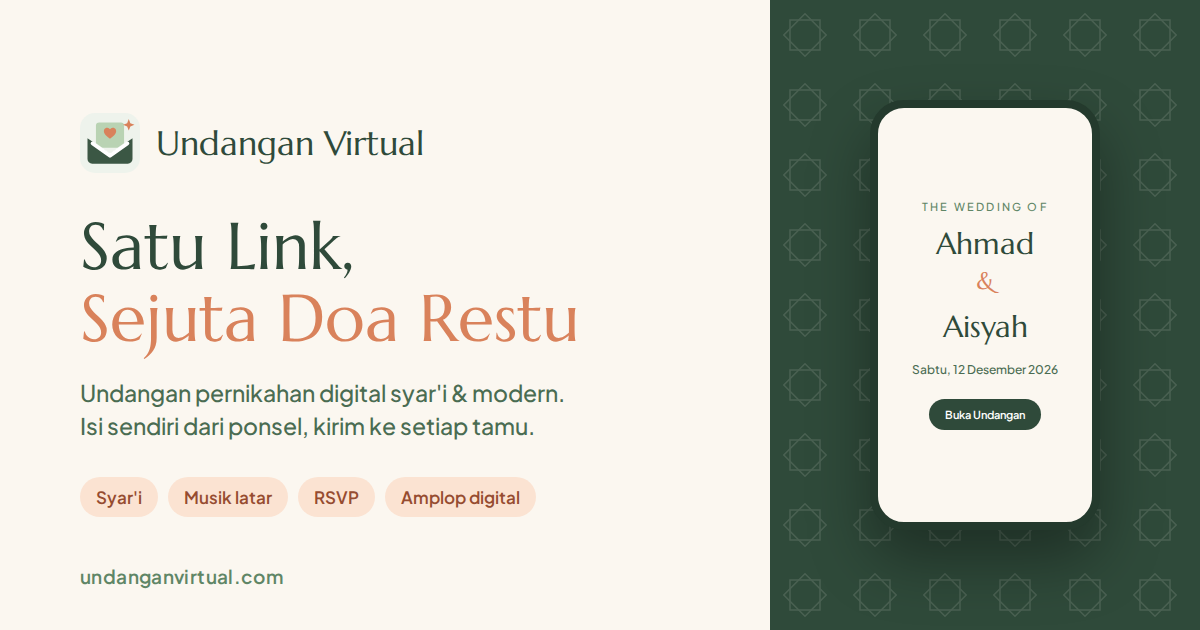
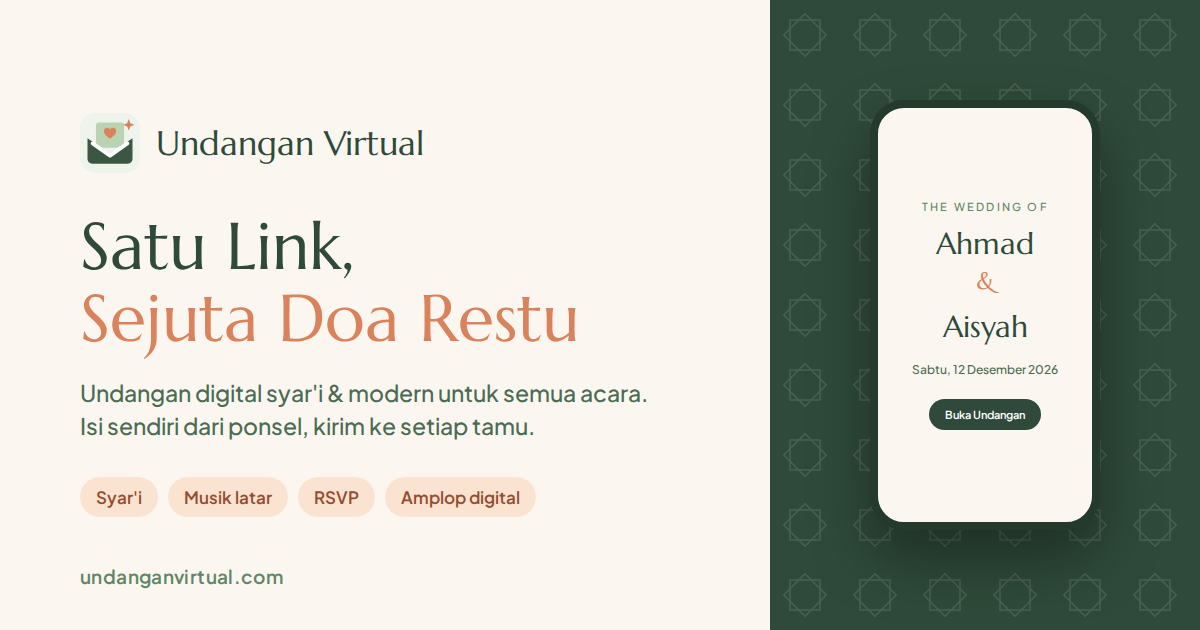
SEO beranda untuk semua jenis acara, bukan hanya pernikahan
- judul, meta description, keywords, OG, manifest, dan footer menjadi umum
- hero & fitur: pernikahan, aqiqah, khitanan, ulang tahun, kantor, kegiatan sekolah
- section baru "Undangan Digital untuk Setiap Acara" dengan tautan ke tiap jenis
- FAQ (dan JSON-LD FAQPage) diperluas: jenis acara, cara membuat, harga, donasi
- gambar og-image.png dan OG dinamis memakai teks umum

Claude-Session: https://claude.ai/code/session_01H35BSszKcq6NT5Cah5ijFU

Changed region(s): [[0.1542, 0.6032, 0.555, 0.6635]]

diff --git a/app/pages/index.vue b/app/pages/index.vue
@@ -3,8 +3,8 @@ import type { CatalogTheme } from '~/composables/useCatalog'
 import type { FeatureIconName } from '~/components/ui/FeatureIcon.vue'
 
 useSeoMeta({
-  title: 'Undangan Pernikahan Digital Syar\'i & Modern',
-  ogTitle: `${BRAND.name} — Undangan Pernikahan Digital Syar'i & Modern`,
+  title: 'Undangan Digital Online Syar\'i & Modern untuk Semua Acara',
+  ogTitle: `${BRAND.name} — Undangan Digital Syar'i & Modern untuk Semua Acara`,
   description: BRAND.description,
   ogDescription: BRAND.description,
 })
@@ -65,19 +65,27 @@ const features = [
   { i: 'invite' as const, t: 'Link personal per tamu', d: 'Nama tamu tampil di sampul undangan, dan Anda bisa melihat siapa yang sudah membuka.' },
   { i: 'music' as const, t: 'Musik latar', d: 'Unggah lagu atau nasyid pilihan Anda, diputar otomatis saat undangan dibuka.' },
   { i: 'rsvp' as const, t: 'RSVP & buku ucapan', d: 'Tamu konfirmasi kehadiran dan mengirim doa, rekapnya langsung di dashboard.' },
-  { i: 'map' as const, t: 'Peta & kalender', d: 'Tombol Google Maps dan simpan ke kalender untuk akad maupun resepsi.' },
-  { i: 'gift' as const, t: 'Amplop digital', d: 'Nomor rekening dengan tombol salin, tanpa perlu dikirim terpisah.' },
-  { i: 'countdown' as const, t: 'Hitung mundur & galeri', d: 'Countdown menuju hari bahagia dan galeri foto prewedding.' },
+  { i: 'map' as const, t: 'Peta & kalender', d: 'Tombol Google Maps dan simpan ke kalender untuk setiap sesi acara, dari akad hingga rundown kegiatan.' },
+  { i: 'gift' as const, t: 'Amplop digital & donasi', d: 'Nomor rekening dan QRIS dengan tombol salin, untuk kado pernikahan maupun donasi kegiatan.' },
+  { i: 'countdown' as const, t: 'Hitung mundur & galeri', d: 'Countdown menuju hari acara dan galeri foto kenangan yang bisa diisi sendiri.' },
 ]
 
-const faqs = [
-  { q: 'Apa itu Undangan Virtual?', a: 'Undangan Virtual adalah layanan undangan pernikahan digital berbentuk website. Anda memilih tema, mengisi data mempelai dan acara, lalu membagikan link undangan ke tamu lewat WhatsApp atau media sosial.' },
-  { q: 'Apakah tersedia tema undangan syar\'i?', a: 'Ya. Tersedia tema syar\'i dengan ornamen islami, ayat Al-Qur\'an, salam pembuka dan penutup islami, serta ilustrasi tanpa wajah. Tersedia juga tema minimalis, floral, dan modern.' },
+const minPrice = computed(() => {
+  const prices = (data.value?.packages ?? []).map(p => p.price).filter(p => p > 0)
+  return prices.length ? Math.min(...prices) : 0
+})
+const faqs = computed(() => [
+  { q: 'Apa itu Undangan Virtual?', a: 'Undangan Virtual adalah layanan undangan digital berbentuk website untuk berbagai acara: pernikahan, aqiqah, khitanan, ulang tahun, acara kantor, hingga kegiatan sekolah dan kampus. Anda memilih tema, mengisi data acara dari ponsel, lalu membagikan link undangan ke tamu lewat WhatsApp atau media sosial.' },
+  { q: 'Undangan digital bisa dipakai untuk acara apa saja?', a: 'Tersedia tema untuk pernikahan dan lamaran, aqiqah dan tasyakuran, khitanan, ulang tahun anak maupun milad dewasa, acara kantor (peresmian, seminar, rapat kerja), serta acara umum seperti pengajian, halal bihalal, reuni, dan kegiatan ekstrakurikuler Pramuka, PMR, atau seni.' },
+  { q: 'Bagaimana cara membuat undangan digital di Undangan Virtual?', a: 'Pilih tema di katalog, pilih paket kuota tamu, lalu bayar online. Setelah lunas Anda mendapat token aktivasi untuk membuat akun. Isi data acara di dashboard, lihat pratinjaunya langsung, lalu bagikan link personal ke setiap tamu.' },
+  ...(minPrice.value ? [{ q: 'Berapa harga undangan digital di Undangan Virtual?', a: `Harga mulai dari Rp ${minPrice.value.toLocaleString('id-ID')} per undangan, tergantung paket kuota tamu yang dipilih. Semua tema bisa dipakai di setiap paket, dan tidak ada biaya bulanan.` }] : []),
+  { q: 'Apakah tersedia tema undangan syar\'i?', a: 'Ya. Tersedia tema syar\'i dengan ornamen islami, ayat Al-Qur\'an atau hadits yang sesuai acara, salam pembuka dan penutup islami, serta ilustrasi tanpa wajah. Tersedia juga tema minimalis, floral, modern, adat, dan tema ceria untuk anak.' },
   { q: 'Bagaimana cara membayar?', a: 'Pembayaran dilakukan online melalui QRIS, virtual account bank, e-wallet, atau gerai ritel. Token aktivasi langsung muncul setelah pembayaran lunas.' },
   { q: 'Apakah nama tamu bisa ditulis di undangan?', a: 'Bisa. Setiap tamu mendapat link personal sehingga namanya tampil di sampul undangan. Jumlah link tamu mengikuti paket yang dipilih.' },
-  { q: 'Bisakah menambahkan musik di undangan?', a: 'Bisa. Anda dapat mengunggah lagu sendiri (MP3/M4A) yang akan diputar saat tamu membuka undangan, atau memakai musik bawaan tema.' },
+  { q: 'Bisakah menerima amplop digital atau donasi lewat undangan?', a: 'Bisa. Undangan pernikahan, aqiqah, khitanan, dan ulang tahun memiliki amplop digital berisi nomor rekening dengan tombol salin. Untuk acara kantor dan kegiatan umum tersedia section donasi kegiatan dengan target dana, QRIS, dan rekening yang bisa diaktifkan sendiri.' },
+  { q: 'Bisakah menambahkan musik di undangan?', a: 'Bisa. Anda dapat mengunggah lagu atau nasyid sendiri (MP3/M4A) yang diputar saat tamu membuka undangan, atau memakai musik bawaan tema.' },
   { q: 'Apakah undangan bisa diubah setelah dibagikan?', a: 'Bisa. Semua perubahan di dashboard langsung tampil di link yang sama, jadi tamu selalu melihat informasi terbaru.' },
-]
+])
 const openFaq = ref<number | null>(0)
 
 const origin = useSiteOrigin()
@@ -102,7 +110,7 @@ useJsonLd('site', () => ({
     },
     {
       '@type': 'Product',
-      'name': 'Undangan Pernikahan Digital',
+      'name': 'Undangan Digital Online',
       'description': BRAND.description,
       'brand': { '@id': `${origin}/#org` },
       'image': `${origin}/og-image.png`,
@@ -118,7 +126,7 @@ useJsonLd('site', () => ({
     },
     {
       '@type': 'FAQPage',
-      'mainEntity': faqs.map(f => ({ '@type': 'Question', 'name': f.q, 'acceptedAnswer': { '@type': 'Answer', 'text': f.a } })),
+      'mainEntity': faqs.value.map(f => ({ '@type': 'Question', 'name': f.q, 'acceptedAnswer': { '@type': 'Answer', 'text': f.a } })),
     },
   ],
 }))
@@ -132,10 +140,10 @@ useJsonLd('site', () => ({
         <div>
           <span class="chip bg-clay-100 text-clay-700">✦ {{ BRAND.tagline }}</span>
           <h1 class="mt-4 font-display text-4xl leading-tight text-brand md:text-5xl">
-            Undangan pernikahan digital yang indah, <span class="text-clay">mudah diisi sendiri</span>.
+            Undangan digital untuk setiap momen, <span class="text-clay">mudah diisi sendiri</span>.
           </h1>
           <p class="mt-4 max-w-md text-brand-600">
-            Tema syar'i, minimalis, floral, dan modern. Isi data mempelai dan acara dari ponsel, lalu bagikan link undangan personal ke setiap tamu, lengkap dengan musik, RSVP, dan buku ucapan.
+            Pernikahan, aqiqah, khitanan, ulang tahun, acara kantor, hingga kegiatan sekolah dan kampus. Pilih tema syar'i atau modern, isi dari ponsel, lalu bagikan link personal ke setiap tamu, lengkap dengan musik, RSVP, dan buku ucapan.
           </p>
           <div class="mt-6 flex flex-wrap gap-3">
             <a href="#katalog" class="btn-primary">Lihat Katalog Tema</a>
@@ -164,6 +172,26 @@ useJsonLd('site', () => ({
           <p class="mt-1 text-sm text-brand-600">{{ s.d }}</p>
         </li>
       </ol>
+    </section>
+
+    <!-- Jenis acara -->
+    <section v-if="data?.groups.length" class="mx-auto max-w-6xl px-4 pt-16" aria-labelledby="jenis-acara">
+      <h2 id="jenis-acara" class="font-display text-3xl text-brand">Undangan Digital untuk Setiap Acara</h2>
+      <p class="mt-1 max-w-2xl text-sm text-brand-600">Satu platform untuk semua momen: dari pernikahan dan aqiqah, ulang tahun, hingga acara kantor dan kegiatan sekolah atau kampus.</p>
+      <div class="mt-5 grid gap-3 sm:grid-cols-2 lg:grid-cols-3">
+        <a
+          v-for="g in data.groups" :key="g.slug" :href="`/?jenis=${g.slug}#katalog`"
+          class="card flex items-start gap-3 p-4 transition hover:ring-brand-300"
+          @click.prevent="group = g.slug"
+        >
+          <FeatureIcon :name="g.icon as FeatureIconName" />
+          <span class="min-w-0">
+            <span class="block font-semibold text-brand-900">Undangan {{ g.name }}</span>
+            <span class="mt-0.5 block text-sm text-brand-600">{{ g.description }}</span>
+            <span class="mt-1 block text-xs font-semibold text-clay-700">{{ groupCounts.get(g.slug) ? `${groupCounts.get(g.slug)} tema →` : 'Segera hadir' }}</span>
+          </span>
+        </a>
+      </div>
     </section>
 
     <!-- Katalog -->

diff --git a/app/utils/seo.ts b/app/utils/seo.ts
@@ -3,9 +3,9 @@ export const BRAND = {
   name: 'Undangan Virtual',
   tagline: 'Satu Link, Sejuta Doa Restu',
   description:
-    'Buat undangan pernikahan digital syar\'i dan modern dalam hitungan menit. Pilih tema, isi dari ponsel, lalu kirim link personal ke setiap tamu, lengkap dengan RSVP, musik latar, peta lokasi, dan amplop digital.',
+    'Buat undangan digital untuk pernikahan, aqiqah, khitanan, ulang tahun, acara kantor, dan kegiatan sekolah. Tema syar\'i & modern, isi dari ponsel, kirim link personal ke tamu.',
   keywords:
-    'undangan digital, undangan pernikahan digital, undangan online, undangan website, undangan syar\'i, undangan nikah islami, undangan virtual, e-invitation pernikahan',
+    'undangan digital, undangan online, undangan website, undangan digital syar\'i, undangan pernikahan digital, undangan aqiqah digital, undangan khitanan online, undangan ulang tahun digital, undangan acara kantor, undangan pengajian, undangan reuni, undangan kegiatan sekolah, undangan virtual',
 }
 
 /** Halaman privat/transaksional yang tidak perlu diindeks mesin pencari. */

diff --git a/server/utils/og-image.ts b/server/utils/og-image.ts
@@ -3,7 +3,7 @@ import { Resvg } from '@resvg/resvg-js'
 
 /**
  * Gambar pratinjau link (Open Graph) 1200×630 bergaya iklan brand Undangan Virtual:
- * logo, tagline, dan fitur tetap sama; hanya nama mempelai & tanggal di layar ponsel
+ * logo, tagline, dan fitur tetap sama; hanya nama (mempelai/anak/acara) & tanggal di layar ponsel
  * yang dinamis mengikuti undangan.
  */
 export const OG_W = 1200
@@ -70,7 +70,7 @@ export async function renderBrandOg(opts: { groom: string, bride: string, date: 
         h('div', { color: C.clay }, 'Sejuta Doa Restu'),
       ]),
       h('div', { flexDirection: 'column', fontSize: 23, fontWeight: 500, color: C.text, marginTop: 22, lineHeight: 1.45 }, [
-        h('div', {}, 'Undangan pernikahan digital syar\'i & modern.'),
+        h('div', {}, 'Undangan digital syar\'i & modern untuk semua acara.'),
         h('div', {}, 'Isi sendiri dari ponsel, kirim ke setiap tamu.'),
       ]),
       h('div', { marginTop: 34, gap: 10 }, [tag('Syar\'i'), tag('Musik latar'), tag('RSVP'), tag('Amplop digital')]),

diff --git a/app/layouts/default.vue b/app/layouts/default.vue
@@ -63,7 +63,7 @@ watch(() => route.fullPath, () => (menuOpen.value = false))
         <NuxtLink to="/kebijakan-pengembalian" class="hover:text-brand">Kebijakan Pengembalian Dana</NuxtLink>
         <NuxtLink to="/kontak" class="hover:text-brand">Kontak</NuxtLink>
       </nav>
-      <p class="mt-4">© {{ new Date().getFullYear() }} {{ config.public.siteName }} · Undangan pernikahan digital syar'i & modern</p>
+      <p class="mt-4">© {{ new Date().getFullYear() }} {{ config.public.siteName }} · Undangan digital syar'i & modern untuk semua acara</p>
     </footer>
   </div>
 </template>

diff --git a/app/pages/reseller/index.vue b/app/pages/reseller/index.vue
@@ -1,7 +1,7 @@
 <script setup lang="ts">
 useSeoMeta({
   title: 'Program Reseller Undangan Digital',
-  description: 'Jadi reseller Undangan Virtual: jual undangan pernikahan digital tanpa modal dan tanpa desain, dapatkan bagi hasil dari setiap penjualan, pencairan dua kali sebulan.',
+  description: 'Jadi reseller Undangan Virtual: jual undangan digital (pernikahan, aqiqah, ulang tahun, acara kantor, dan lainnya) tanpa modal dan tanpa desain, dapatkan bagi hasil dari setiap penjualan, pencairan dua kali sebulan.',
 })
 
 const supabase = useSupabaseClient()
